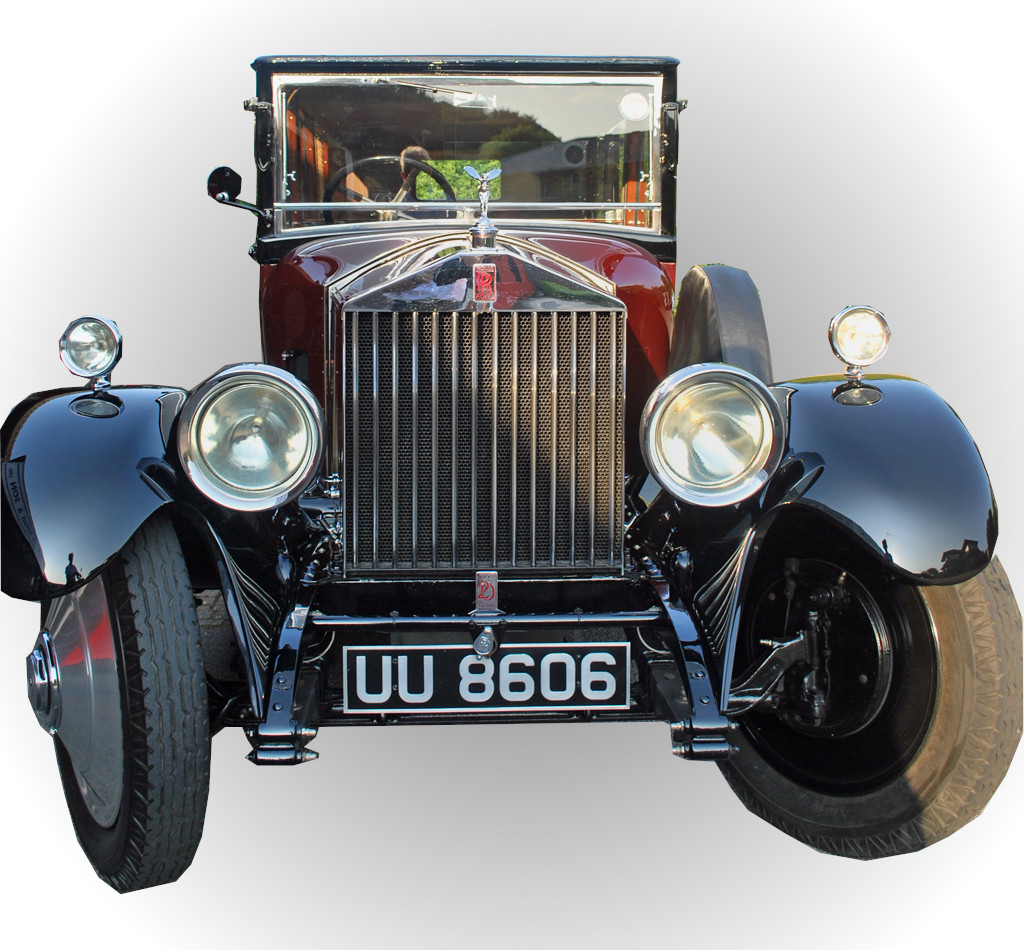
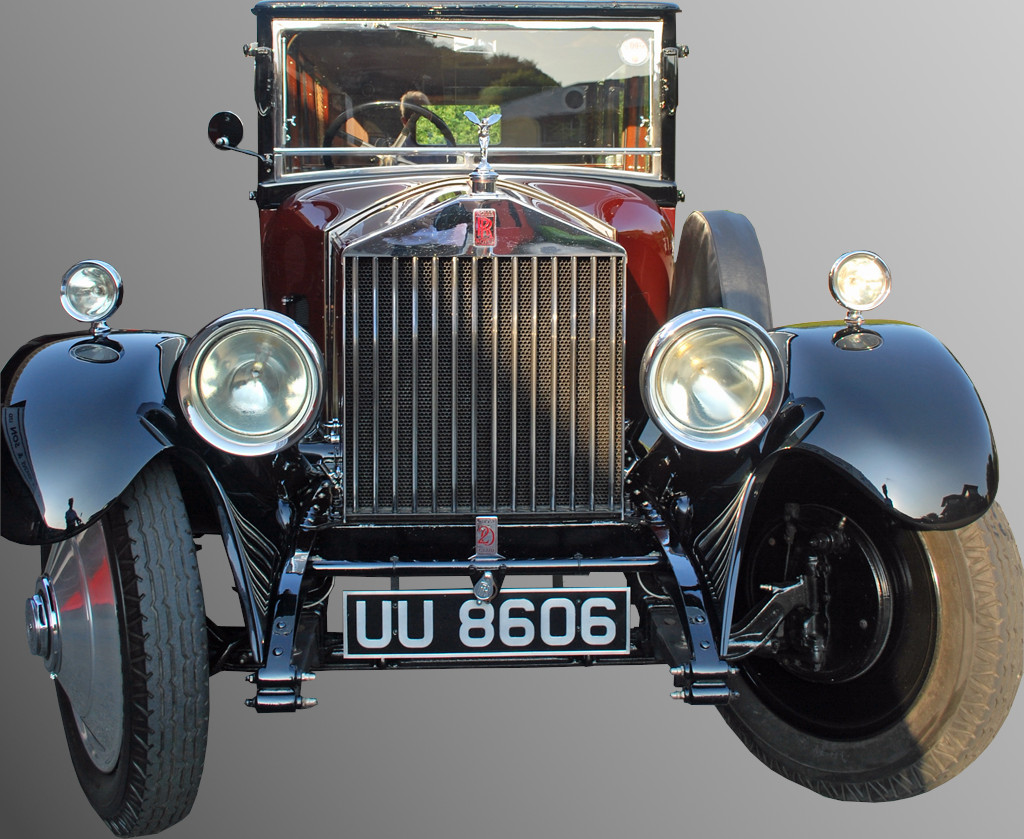
adds signature

diff --git a/src/App.tsx b/src/App.tsx
@@ -2,7 +2,7 @@ import { BrowserRouter, Route, Switch } from 'react-router-dom'
 import Home from './pages/Home';
 import AboutUs from './pages/about/AboutUs';
 import Testimonies from './pages/Testimonies';
-import Contact from './pages/Contact';
+import Contact from './pages/contact/Contact';
 import Gallery from './pages/Gallery';
 import React from 'react';
 import NavigationBar from './pages/components/navigation/NavigationBar';
@@ -30,9 +30,7 @@ class App extends React.Component<AppProps> {
             <Route render={(props) => <NavigationBar {...props} />} />
           </div>
           <div style={{
-            //height: '80vh',
-            minHeight: '69vh',
-            paddingBottom: '2.5rem',
+            minHeight: '77vh',
             userSelect: 'none',
           }}>
             <Switch>

diff --git a/src/pages/about/AboutUs.module.css b/src/pages/about/AboutUs.module.css
@@ -1,6 +1,6 @@
 .container {
     display: flex;
-    height : 100%;
+    min-height : 77vh;
 }
 
 .main_image {
@@ -32,11 +32,9 @@
     }
 
     .main_image {
-        /* min-width : 60vw; */
         display     : block;
         min-height  : 25vh;
-        min-width   : 25vh;
-        aspect-ratio: 1;
+        min-width   : 28vh;
         align-self  : center;
     }
 

diff --git a/src/pages/components/title/Signature.module.css b/src/pages/components/title/Signature.module.css
@@ -1,13 +1,14 @@
 .container {
-    align-self: center;
+    align-self  : center;
+    justify-self: center;
 }
 
 .contents {
     color     : darkgray;
     align-self: center;
     font-size : 1.2vw;
-    margin: 0px;
-    padding: 0px;
+    margin    : 0px;
+    padding   : 0px;
 }
 
 @media screen and (max-width: 400px) {

diff --git a/src/pages/about/AboutUs.tsx b/src/pages/about/AboutUs.tsx
@@ -1,5 +1,5 @@
 import React from 'react'
-import MainImage from '../../assets/about-us/About_Us_Main_Image.jpg'
+import MainImage from '../../assets/about-us/About_Us_Main_Image.png'
 import ExpandableInformation from './ExpandableInformation'
 import Styles from './AboutUs.module.css'
 
